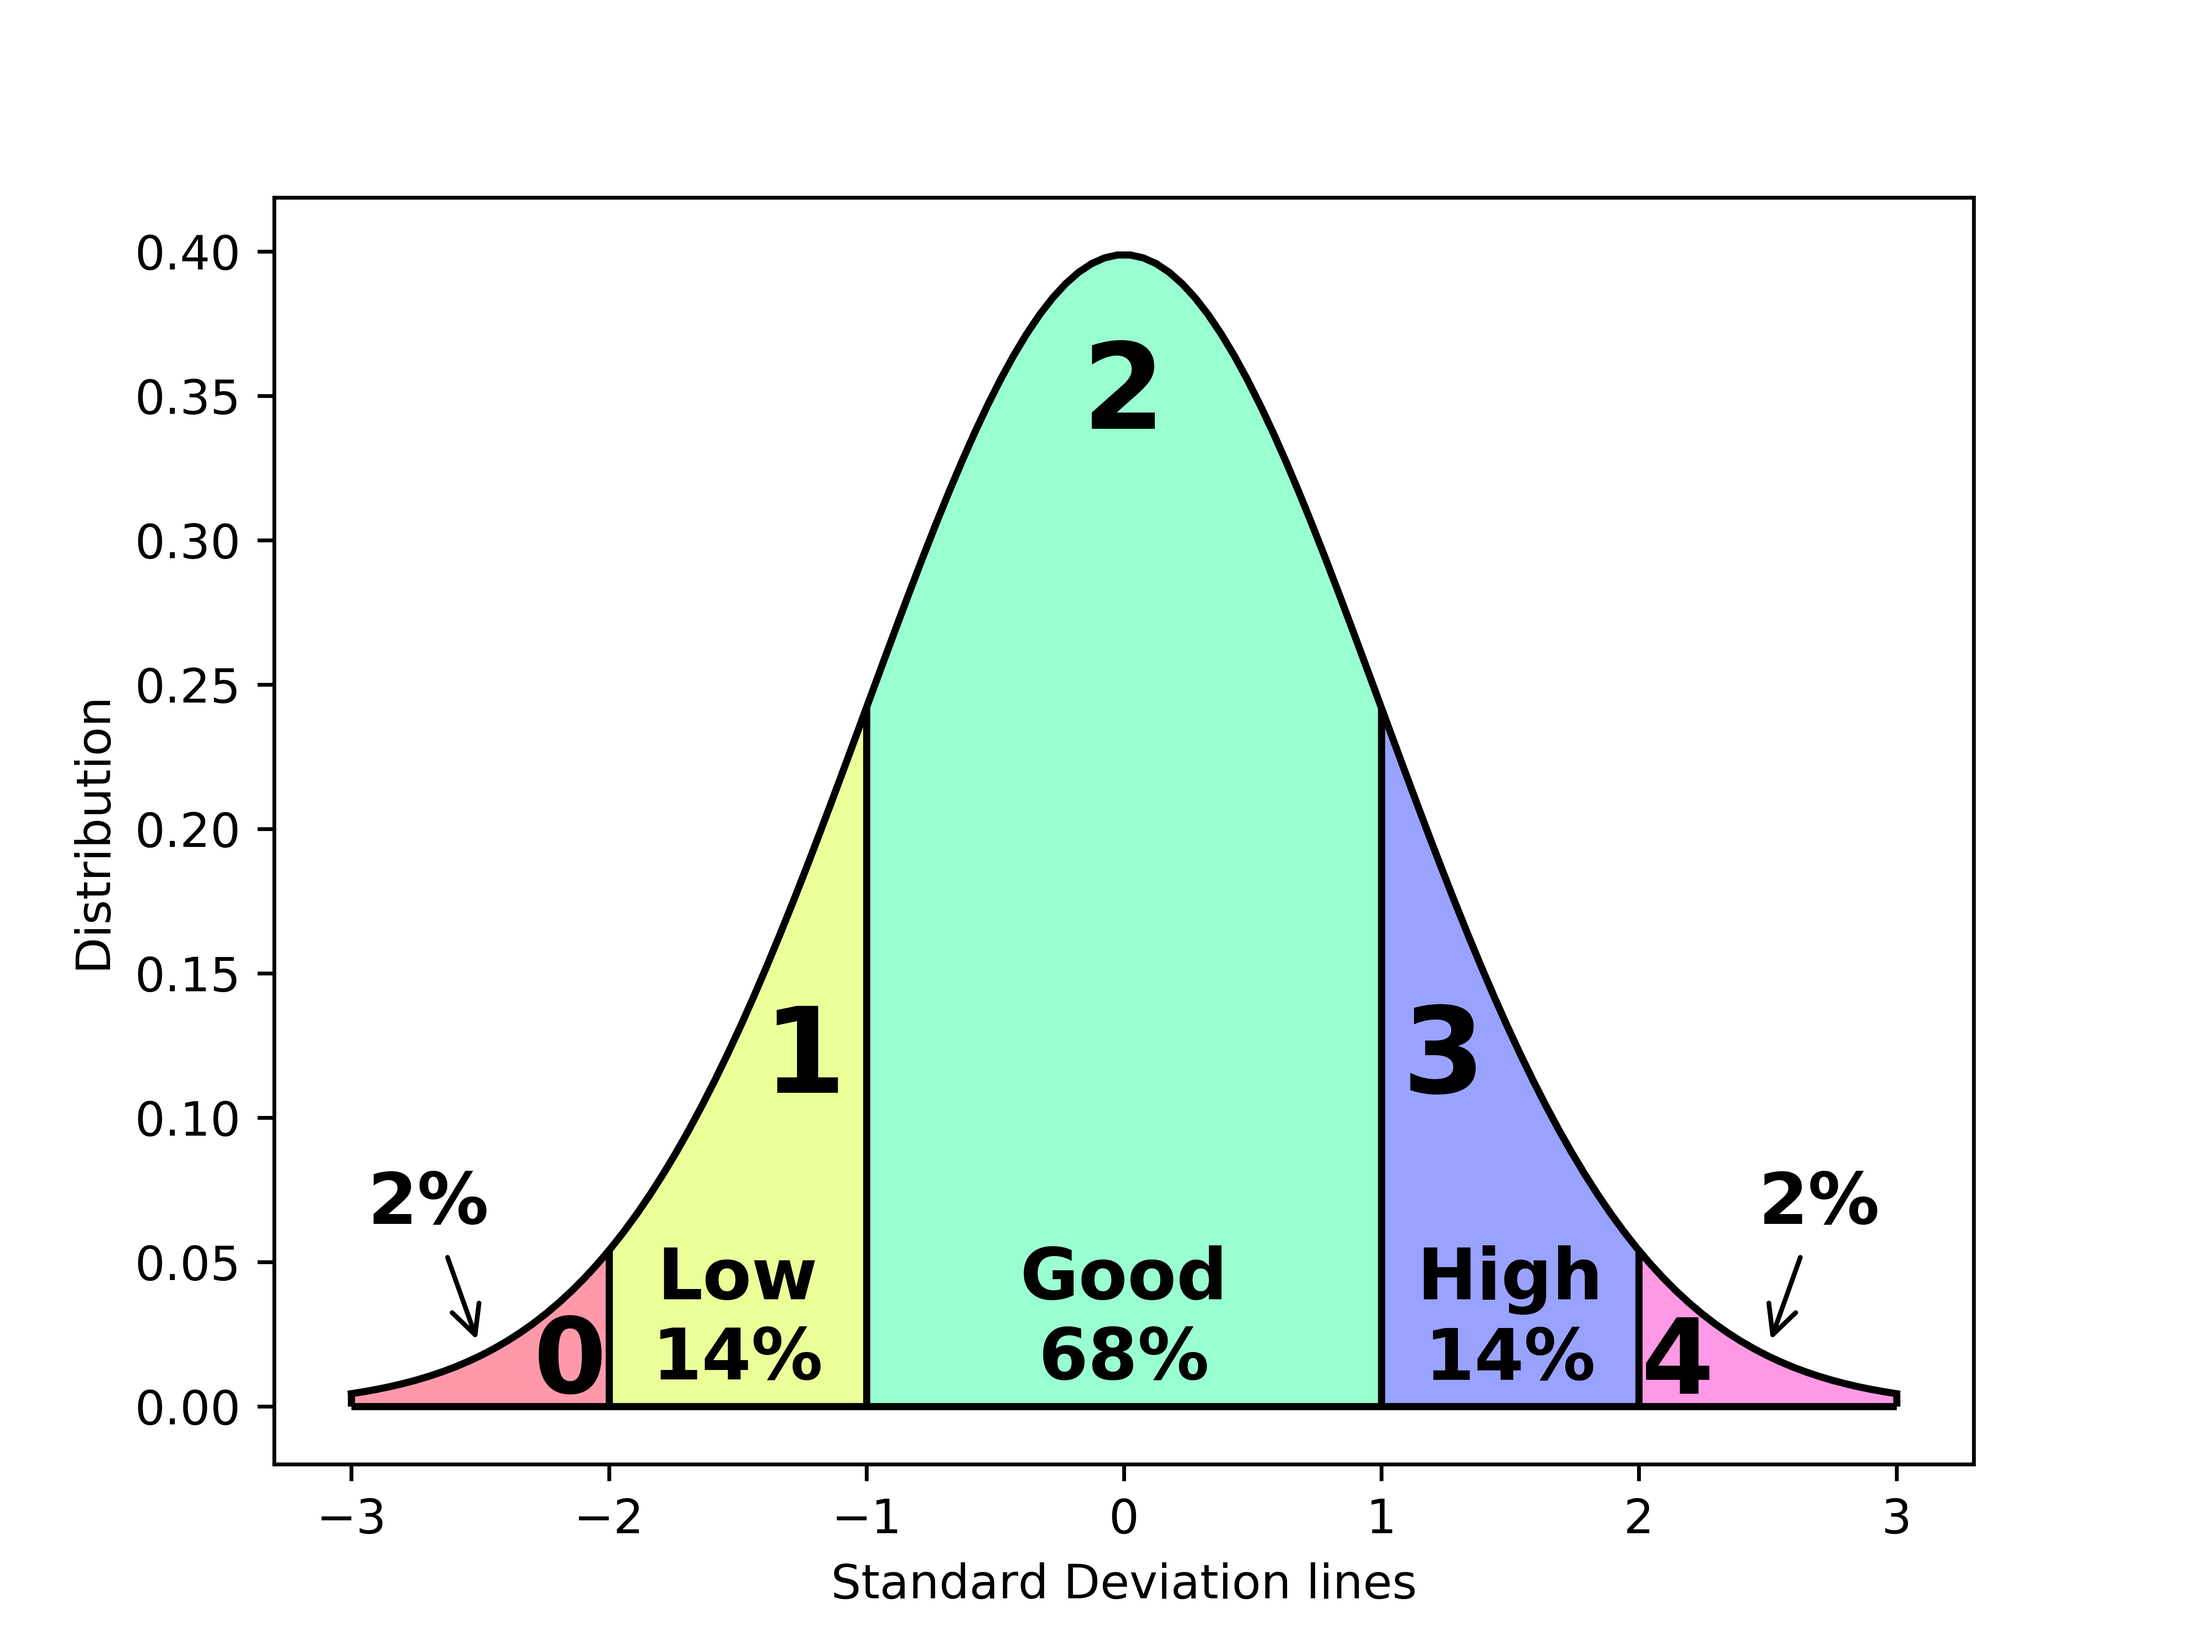
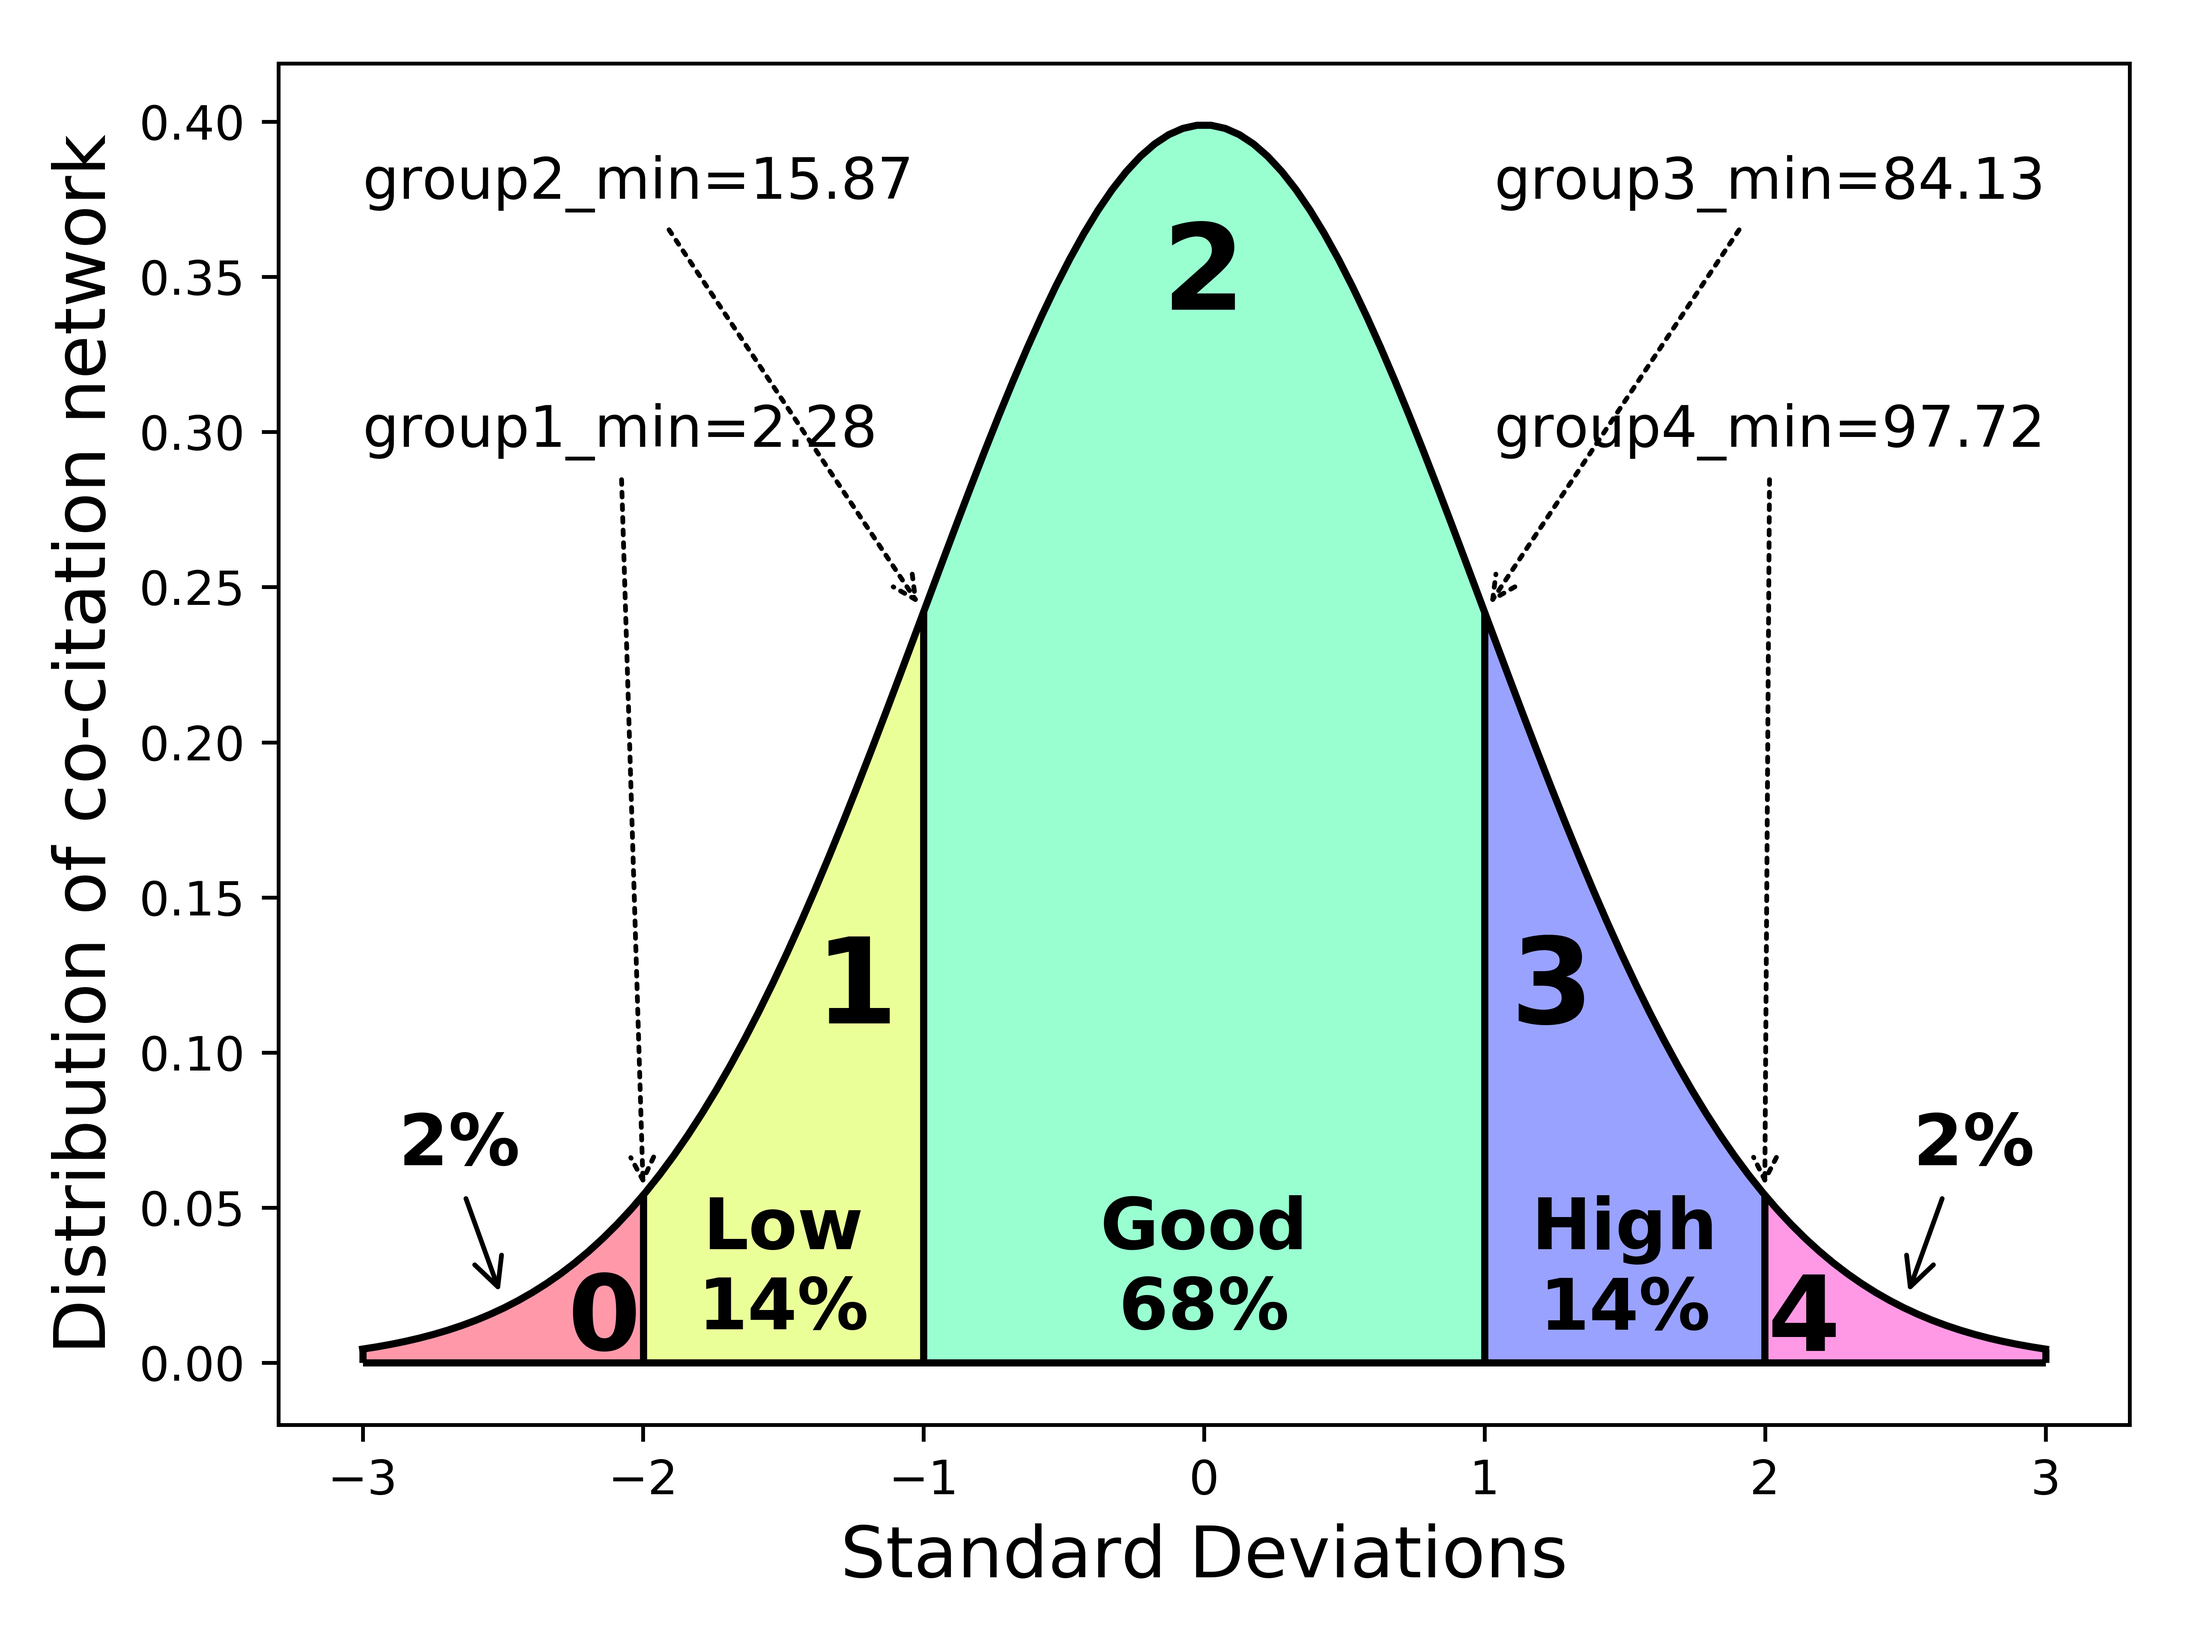
Add image showing first use

diff --git a/src/pmidcite/plot/nih_perc.py b/src/pmidcite/plot/nih_perc.py
@@ -1,16 +1,18 @@
 """Plot groups in the NIH percentile map showing how well a paper is doing among its peers"""
 
-__copyright__ = "Copyright (C) 2020-present, Adapted by DV Klopfenstein. All rights reserved."
+__copyright__ = "Copyright (C) 2020-present, DV Klopfenstein. All rights reserved."
 
+import math
+from sys import stdout
+
+# pylint: disable=wrong-import-position
 import matplotlib as mpl
 mpl.use('agg')
-import matplotlib.pyplot as plt
+## import matplotlib.pyplot as plt
 from matplotlib import cm
 from matplotlib import colors
 import numpy as np
 import scipy.stats as stats
-import math
-from sys import stdout
 
 
 class PltNihPercentile:
@@ -40,7 +42,10 @@ class PltNihPercentile:
         cmap = cm.get_cmap(colormap)
         norm = colors.Normalize(vmin=0, vmax=4)
         scalarmap = cm.ScalarMappable(norm=norm, cmap=cmap)
-        return [scalarmap.to_rgba(n) for n in range(5)]
+        rgbas = [scalarmap.to_rgba(n) for n in range(5)]
+        for idx, rgba in enumerate(rgbas):
+            print(idx, mpl.colors.rgb2hex(rgba))
+        return rgbas
 
     def fill_between(self, axes, xval0, xval1, facecolor):
         """Color between standard deviation lines"""
@@ -52,28 +57,26 @@ class PltNihPercentile:
 class PltNihVals(PltNihPercentile):
     """Plot groups in the NIH percentile map showing how well a paper is doing among its peers"""
 
-    obj = PltNihPercentile()
 
-    def __init__(self, group_dividers):
-        self.percentiles = group_dividers  # List of dividers w/values from 0 to 1
+    def __init__(self, group_mins):
+        self.group_mins = group_mins  # List of dividers w/values from 0 to 1
         # https://stackoverflow.com/questions/20864847/probability-to-z-score-and-vice-versa
-        self.zscores = [stats.norm.ppf(v) for v in group_dividers]
+        self.zscores = [stats.norm.ppf(v/100) for v in group_mins]
         self.vlines_x = [-3] + self.zscores + [3]
         self.vlines_y = [stats.norm.pdf(x, self.MU, self.SIGMA) for x in self.vlines_x]
 
     def prt_vals(self, prt=stdout):
         """Print values and their z-scores"""
-        for perc, zscore in zip(self.percentiles, self.zscores):
+        for perc, zscore in zip(self.group_mins, self.zscores):
             prt.write('{PERC:5.3f} {Z}\n'.format(PERC=perc, Z=zscore))
 
     def get_group_percentages(self):
         """Get the percentage that each group represents"""
-        vals = [self.percentiles[0],
-                self.percentiles[1] - self.percentiles[0],
-                self.percentiles[2] - self.percentiles[1],
-                self.percentiles[3] - self.percentiles[2],
-                1.0 - self.percentiles[3]]
-        return [100*v for v in vals]
+        return [self.group_mins[0],
+                self.group_mins[1] - self.group_mins[0],
+                self.group_mins[2] - self.group_mins[1],
+                self.group_mins[3] - self.group_mins[2],
+                100 - self.group_mins[3]]
 
     def plt_lines(self, axes):
         """Plot the lines bordering the normal distribution and the group dividers"""
@@ -84,19 +87,17 @@ class PltNihVals(PltNihPercentile):
 
     def colorfill_groups(self, axes, colormap='gist_rainbow'):
         """Fill each nih percentile group with a color from the colormap"""
-        colors = self.get_colors('gist_rainbow')
-        for idx, color in enumerate(colors):
+        color_list = self.get_colors(colormap)
+        for idx, color in enumerate(color_list):
             self.fill_between(axes, self.vlines_x[idx], self.vlines_x[idx+1], color)
 
     def add_text_groups(self, axes):
         """Add text describing groups and content"""
         group_percs = self.get_group_percentages()
-        print(group_percs)
-        vals = [int(round(v)) for v in group_percs]
+        kwtxt = {'ha':'center', 'va':'center', 'fontweight':'bold'}
         # 0) Lowest
         axes.text(-2.01, -.003, '0', fontsize=22, ha='right', va='bottom', fontweight='bold')
         # 1) Low
-        kwtxt = {'ha':'center', 'va':'center', 'fontweight':'bold'}
         axes.text(-1.24, .12, '1', fontsize=25, **kwtxt)
         axes.text(-1.5, .03, 'Low\n{:2.0f}%'.format(group_percs[1]), fontsize=15, **kwtxt)
         # 2) Good
@@ -109,22 +110,31 @@ class PltNihVals(PltNihPercentile):
         axes.text(2.01, -.003, '4', fontsize=22, ha='left', va='bottom', fontweight='bold')
 
         axes.annotate('{:2.0f}%'.format(group_percs[0]), fontsize=15, xy=(2.5, 0.02),
-                xycoords='data', xytext=(2.7, .07),
-                arrowprops=dict(arrowstyle="->",
-                                color = 'black'), **kwtxt)
+                      xycoords='data', xytext=(2.7, .07),
+                      arrowprops=dict(arrowstyle="->", color='black'), **kwtxt)
         axes.annotate('{:2.0f}%'.format(group_percs[4]), fontsize=15, xy=(-2.5, 0.02),
-                xycoords='data', xytext=(-2.7, .07),
-                arrowprops=dict(arrowstyle="->",
-                                color = 'black'), **kwtxt)
-
+                      xycoords='data', xytext=(-2.7, .07),
+                      arrowprops=dict(arrowstyle="->", color='black'), **kwtxt)
 
     def anno_groupmin(self, axes):
         """Add group_minN annotations"""
-        axes.annotate('{:2.0f}%'.format(group_percs[0]), fontsize=15, xy=(2.5, 0.02),
-        xycoords='data', xytext=(2.7, .07),
-        arrowprops=dict(arrowstyle="->",
-                        color = 'black'), **kwtxt)
+        kws = {
+            'xycoords':'data',
+            'fontsize':12,
+            'va':'center',
+            'arrowprops':dict(arrowstyle="->", color='black', linestyle='dotted'),
+        }
+        axes.annotate('group1_min={}'.format(self.group_mins[0]),
+                      xytext=(-3, 0.30), xy=(self.vlines_x[1], self.vlines_y[1]), ha='left', **kws)
+
+        axes.annotate('group2_min={}'.format(self.group_mins[1]),
+                      xytext=(-3, 0.38), xy=(self.vlines_x[2], self.vlines_y[2]), ha='left', **kws)
+
+        axes.annotate('group3_min={}'.format(self.group_mins[2]),
+                      xytext=(3, 0.38), xy=(self.vlines_x[3], self.vlines_y[3]), ha='right', **kws)
+
+        axes.annotate('group4_min={}'.format(self.group_mins[3]),
+                      xytext=(3, 0.30), xy=(self.vlines_x[4], self.vlines_y[4]), ha='right', **kws)
 
 
-
-# Copyright (C) 2020-present, Adapted for pmidcite by DV Klopfenstein. All rights reserved.
+# Copyright (C) 2020-present, DV Klopfenstein. All rights reserved.

diff --git a/src/bin/plt_guassian_nihperc.py b/src/bin/plt_guassian_nihperc.py
@@ -1,13 +1,17 @@
 #!/usr/bin/env python
+"""Plot NIH percentile groups for citation data from a paper's cocitation network"""
 
+__copyright__ = "Copyright (C) 2020-present, DV Klopfenstein. All rights reserved."
+
+
+# pylint: disable=wrong-import-position
+import math
 import matplotlib as mpl
 mpl.use('agg')
 import matplotlib.pyplot as plt
-from matplotlib import cm
-from matplotlib import colors
-import numpy as np
 import scipy.stats as stats
-import math
+from pmidcite.plot.nih_perc import PltNihVals
+## from pmidcite.cfg import Cfg
 
 MU = 0
 VARIANCE = 1
@@ -19,73 +23,31 @@ def main():
         '../pmidcite/doc/images/nih_perc_groups.png',
         '../bibliometrics/doc/nih_perc_groups.tiff',
         '../bibliometrics/doc/nih_perc_groups.pdf',
+        'nih_perc_groups.svg',
         '../bibliometrics/doc/nih_perc_groups.pdf',
     ]
 
     vlines = [-3, -2, -1, 1, 2, 3]
-    xvals = np.linspace(MU - 3*SIGMA, MU + 3*SIGMA, 120)
-    yvals = stats.norm.pdf(xvals, MU, SIGMA)
-    x2y = {xvals:stats.norm.pdf(xvals, MU, SIGMA) for xvals in vlines}
+    probabilities = [round(stats.norm.cdf(z)*100, 2) for z in vlines[1:-1]]
+    pltr = PltNihVals(probabilities)
+    ## pltr = PltNihVals(Cfg().get_nihgrouper().get_list())
+    pltr.prt_vals()
 
     fig, axes = plt.subplots(1, 1)
-    axes.plot(xvals, yvals, color='k')
-    for xval in vlines:
-        plt.vlines(xval, ymin=0, ymax=x2y[xval])
-    plt.hlines(0, xmin=-3, xmax=3)
-
-    # Fill with color
-    colors = _get_colors('gist_rainbow')
-    _fill_between(axes, -3, -2, colors[0])
-    _fill_between(axes, -2, -1, colors[1])
-    _fill_between(axes, -1, 1, colors[2])
-    _fill_between(axes, 1, 2, colors[3])
-    _fill_between(axes, 2, 3, colors[4])
-
-    # Add text
-    # 0) Lowest
-    plt.text(-2.01, -.003, '0', fontsize=22, ha='right', va='bottom', fontweight='bold')
-    # 1) Low
-    kwtxt = {'ha':'center', 'va':'center', 'fontweight':'bold'}
-    plt.text(-1.24, .12, '1', fontsize=25, **kwtxt)
-    plt.text(-1.5, .03, 'Low\n14%', fontsize=15, **kwtxt)
-    # 2) Good
-    plt.text(0, .35, '2', fontsize=25, **kwtxt)
-    plt.text(0, .03, 'Good\n68%', fontsize=15, **kwtxt)
-    # 3) Better
-    plt.text(1.24, .12, '3', fontsize=25, **kwtxt)
-    plt.text(1.5, .03, 'High\n14%', fontsize=15, **kwtxt)
-    # 4) Best
-    plt.text(2.01, -.003, '4', fontsize=22, ha='left', va='bottom', fontweight='bold')
-
-    plt.xlabel('Standard Deviation lines')
-    plt.ylabel('Distribution')
-
-    axes.annotate('2%', fontsize=15, xy=(2.5, 0.02),
-            xycoords='data', xytext=(2.7, .07),
-            arrowprops=dict(arrowstyle="->",
-                            color = 'black'), **kwtxt)
-    axes.annotate('2%', fontsize=15, xy=(-2.5, 0.02),
-            xycoords='data', xytext=(-2.7, .07),
-            arrowprops=dict(arrowstyle="->",
-                            color = 'black'), **kwtxt)
+    pltr.plt_lines(axes)
+    pltr.colorfill_groups(axes)
+    pltr.add_text_groups(axes)
+    pltr.anno_groupmin(axes)
+    axes.set_xlabel('Standard Deviations', fontsize=15)
+    axes.set_ylabel('Distribution of co-citation network', fontsize=15)
 
     for fout_img in fout_imgs:
+        fig.tight_layout()
         plt.savefig(fout_img, dpi=800)
         print('WROTE: {IMG}'.format(IMG=fout_img))
-
-def _get_colors(colormap):
-    """Get colors"""
-    cmap = cm.get_cmap(colormap)
-    norm = colors.Normalize(vmin=0, vmax=4)
-    scalarmap = cm.ScalarMappable(norm=norm, cmap=cmap)
-    return [scalarmap.to_rgba(n) for n in range(5)]
-
-def _fill_between(axes, xval0, xval1, facecolor):
-    """Color between standard deviation lines"""
-    xvals = np.linspace(xval0, xval1, 20)
-    yvals = stats.norm.pdf(xvals, MU, SIGMA)
-    axes.fill_between(xvals, yvals, facecolor=facecolor, alpha=.4)
 
 
 if __name__ == '__main__':
     main()
+
+# Copyright (C) 2020-present, DV Klopfenstein. All rights reserved.

diff --git a/src/pmidcite/icite/nih_grouper.py b/src/pmidcite/icite/nih_grouper.py
@@ -67,17 +67,21 @@ class NihGrouper:
         """Add NIH grouper arguments to the parser"""
         # pylint: disable=line-too-long
         parser.add_argument(
-            '-1', metavar='MIN1', dest='min1', default=self.min1, type=float,
+            '-1', metavar='group1_min', dest='min1', default=self.min1, type=float,
             help='Minimum NIH percentile to be placed in group 1 (default: {D})'.format(D=self.min1))
         parser.add_argument(
-            '-2', metavar='MIN2', dest='min2', default=self.min2, type=float,
+            '-2', metavar='group2_min', dest='min2', default=self.min2, type=float,
             help='Minimum NIH percentile to be placed in group 2 (default: {D})'.format(D=self.min2))
         parser.add_argument(
-            '-3', metavar='MIN3', dest='min3', default=self.min3, type=float,
+            '-3', metavar='group3_min', dest='min3', default=self.min3, type=float,
             help='Minimum NIH percentile to be placed in group 3 (default: {D})'.format(D=self.min3))
         parser.add_argument(
-            '-4', metavar='MIN4', dest='min4', default=self.min4, type=float,
+            '-4', metavar='group4_min', dest='min4', default=self.min4, type=float,
             help='Minimum NIH percentile to be placed in group 4 (default: {D})'.format(D=self.min4))
+
+    def get_list(self):
+        """Get the dividing values as a list"""
+        return [self.min1, self.min2, self.min3, self.min4]
 
 
 # Copyright (C) 2021-present DV Klopfenstein. All rights reserved.

diff --git a/README.md b/README.md
@@ -9,6 +9,9 @@ rather than clicking and clicking and clicking on
 [**Google Scholar**](/doc/images/README_twitter.md)
 *Cited by N* links.
 
+## Usage
+![doc/images/pmidcite0.png](Starting usage)
+
 ### PubMed vs Google Scholar
 <p align="center">
 <img src="doc/images/Search_Features_GS_v_PubMed.png" alt="Google Scholar vs PubMed" width="600"/>
